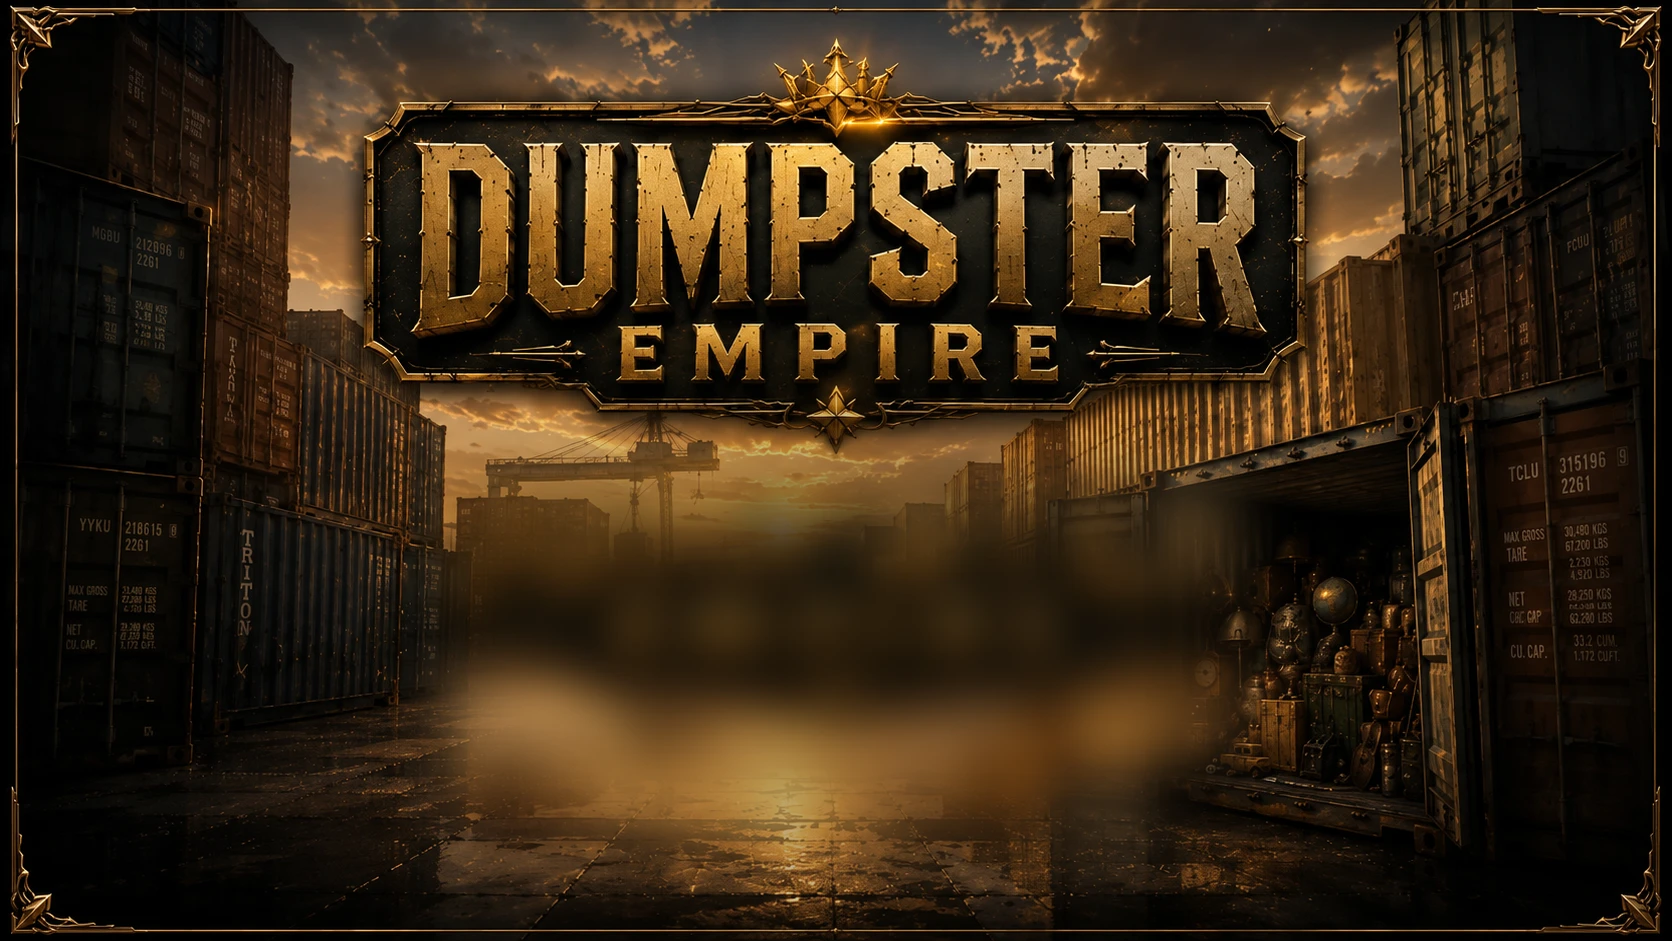
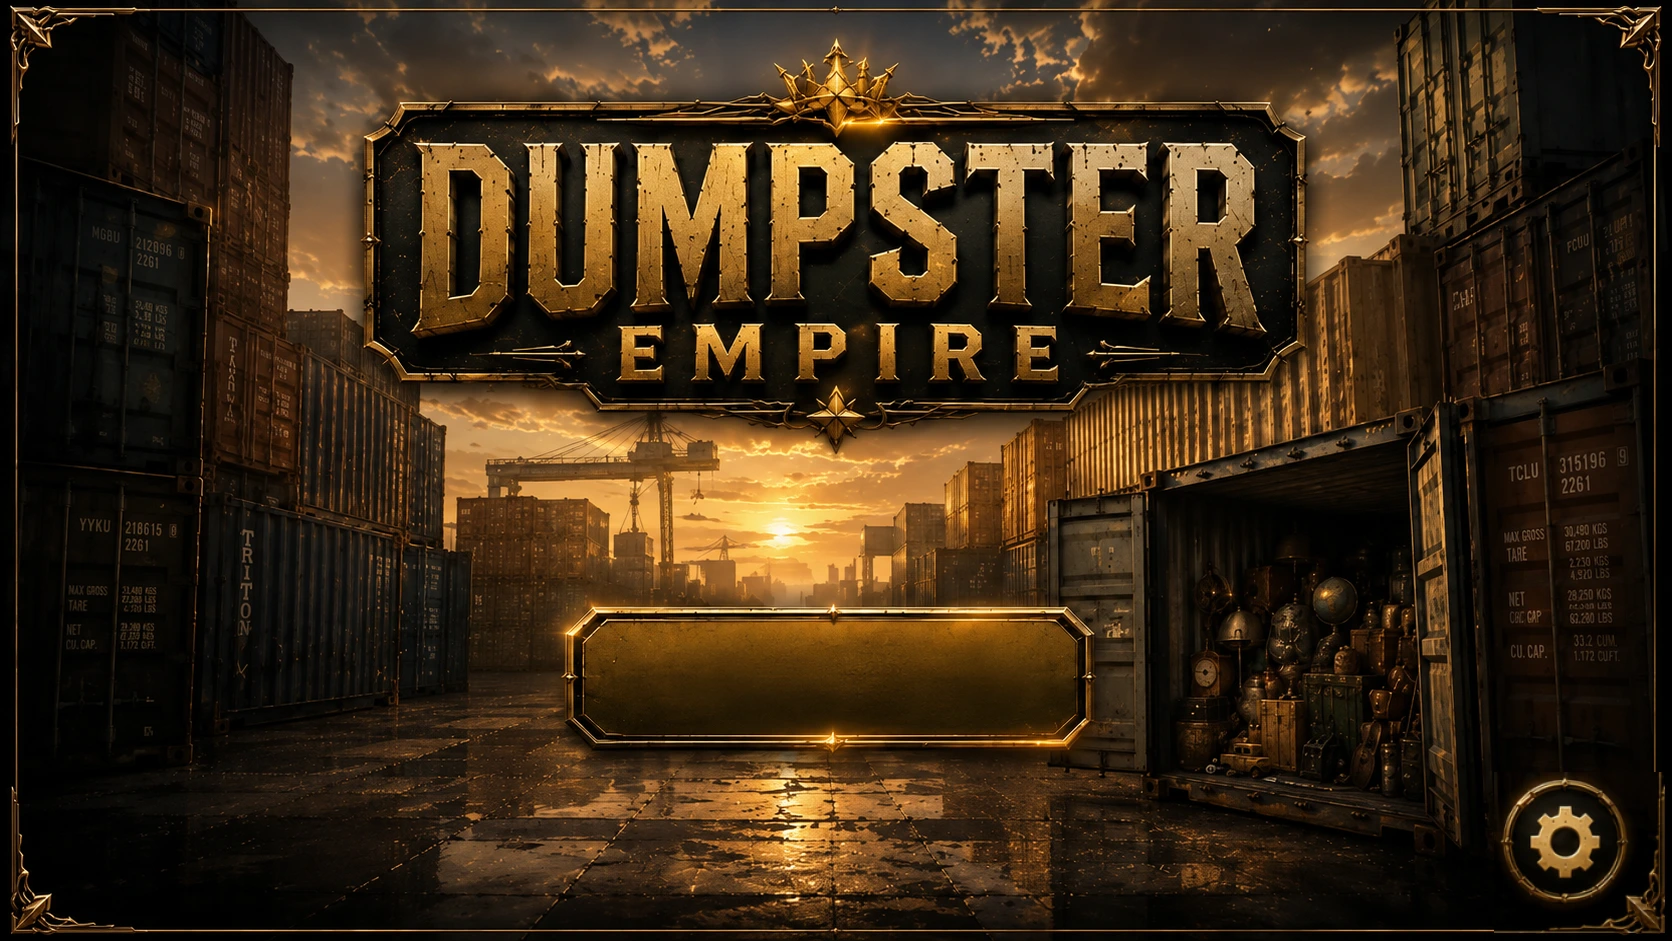
fix: ronda 32 — calcar JUGAR/engranaje sobre el arte real (idéntico a NuevaPantallaInicio.webp)
El primer intento reemplazó el diseño horneado por controles genéricos (logo/ícono propios,
botón de ajustes circular, marco y scrim CSS) en vez de respetar el arte de referencia. Se
revierte al lenguaje de calco de la ronda 19 (--title-art-scale), recalibrado sobre el nuevo
fondo: JUGAR y el engranaje quedan invisibles/transparentes y anclados exactamente sobre la
placa y la ruedita horneadas (la ruedita se compone en el propio asset desde
NuevaPantallaInicio.webp, mismo diseño). El full-bleed de #title-screen (fix de los bordes
vacíos, motivo original de la ronda) se mantiene intacto.

Changed region(s): [[0.2488, 0.4315, 0.7464, 0.9554], [0.8708, 0.8321, 1.0, 1.0]]

diff --git a/apps/game/styles/layout.css b/apps/game/styles/layout.css
@@ -101,6 +101,7 @@ body {
   background-color: var(--wood-surface);
   background-image: var(--wood-grain);
   overflow: hidden;
+  container-type: size; /* para las unidades cqw/cqh del calco de JUGAR/engranaje, ver abajo */
 }
 
 .title-screen[hidden] {
@@ -133,26 +134,23 @@ body {
   opacity: 1;
 }
 
-/* Ronda 32: el arte trae un emblema "DUMPSTER EMPIRE" horneado, pero en `cover` se recorta en
-   proporciones angostas (celular en portrait, ilegible) — a diferencia de rondas previas, este
-   logo DOM queda SIEMPRE visible (TitleScreen.js ya no le pone `.sr-only` al quedar el arte
-   "ready"). `.title-top-scrim` (debajo) lo respalda para que no compita visualmente con el
-   emblema horneado detrás. */
 .title-logo {
   display: flex;
   flex-direction: column;
   align-items: center;
   gap: var(--space-2);
   color: var(--amber);
-  position: relative;
-  text-shadow: 0 2px 8px rgba(0, 0, 0, 0.8);
+  position: relative; /* por encima del arte absoluto mientras es respaldo visible */
 }
 
 .title-logo-icon svg {
   width: clamp(40px, 8vw, 64px);
   height: clamp(40px, 8vw, 64px);
-  filter: drop-shadow(0 2px 6px rgba(0, 0, 0, 0.8));
 }
+
+/* Con el arte listo, el emblema DUMPSTER EMPIRE ya está pintado en el fondo: TitleScreen.js
+   le pone `.sr-only` (components.css) al logo de respaldo — fuera de la vista pero el <h1>
+   sigue para lectores de pantalla. */
 
 .title-logo-text {
   font-family: var(--font-display);
@@ -161,33 +159,20 @@ body {
   text-align: center;
 }
 
-/* Scrim detrás del emblema DOM (por encima del arte, por debajo del logo): franja superior
-   oscurecida para que el "DUMPSTER EMPIRE" horneado del arte no compita con el real. Puramente
-   CSS (no depende de coordenadas del arte, robusto a cualquier proporción de viewport). */
-.title-top-scrim {
-  position: absolute;
-  inset: 0 0 auto 0;
-  height: 45%;
-  background: linear-gradient(to bottom, rgba(10, 8, 4, 0.65) 0%, rgba(10, 8, 4, 0.35) 55%, transparent 100%);
-  pointer-events: none;
-}
-
 /* Ronda 19 (reference/ui/JUGARBUTTON.png, pedido del usuario 2026-07-12): placa metálica verde
    oliva con marco dorado biselado doble (borde + filete interior) y 4 remaches. 100% CSS — el
    texto SIGUE siendo t('titleScreen.play') (vivo, cambia de idioma), por eso no puede ir como
    imagen con el texto horneado. `::before` es el filete interior; `::after` son los 4 remaches
-   (radial-gradients, no requieren 4 nodos DOM).
-   Ronda 32: deja de calcarse sobre el botón pintado del arte viejo — ahora es un control real
-   centrado por flex, con tamaño `clamp()` para escalar de teléfono a desktop. */
+   (radial-gradients, no requieren 4 nodos DOM). Ambos leen `--title-art-scale` (con fallback 1
+   para el estado de respaldo, donde esa variable no existe) para escalar igual que el botón real
+   cuando está anclado sobre el arte (ver la regla `#title-screen[data-bg='ready']` más abajo). */
 .title-play-btn {
-  font-size: clamp(1rem, 2.2vw, 1.5rem);
-  padding: clamp(var(--space-3), 2vh, var(--space-4)) clamp(var(--space-5), 6vw, 3rem);
-  min-height: var(--touch-target);
-  position: relative;
+  font-size: 1.2rem;
+  padding: var(--space-3) var(--space-5);
+  position: relative; /* por encima del arte absoluto en modo respaldo */
   background: linear-gradient(180deg, var(--plate-olive) 0%, var(--plate-olive-dark) 100%);
   color: var(--plate-gold);
   border: 3px solid var(--plate-gold-dark);
-  border-radius: var(--radius-lg);
   text-transform: uppercase;
   font-weight: 800;
   letter-spacing: 0.04em;
@@ -201,8 +186,8 @@ body {
 .title-play-btn::before {
   content: '';
   position: absolute;
-  inset: 6px;
-  border: 2px solid var(--plate-gold-dark);
+  inset: calc(6px * var(--title-art-scale, 1));
+  border: calc(2px * var(--title-art-scale, 1)) solid var(--plate-gold-dark);
   border-radius: inherit;
   pointer-events: none;
 }
@@ -210,7 +195,7 @@ body {
 .title-play-btn::after {
   content: '';
   position: absolute;
-  inset: 6px;
+  inset: calc(6px * var(--title-art-scale, 1));
   pointer-events: none;
   background-repeat: no-repeat;
   background-image:
@@ -218,12 +203,12 @@ body {
     radial-gradient(circle, var(--plate-gold-dark) 45%, transparent 48%),
     radial-gradient(circle, var(--plate-gold-dark) 45%, transparent 48%),
     radial-gradient(circle, var(--plate-gold-dark) 45%, transparent 48%);
-  background-size: 7px 7px;
+  background-size: calc(7px * var(--title-art-scale, 1)) calc(7px * var(--title-art-scale, 1));
   background-position:
-    top 3px left 3px,
-    top 3px right 3px,
-    bottom 3px left 3px,
-    bottom 3px right 3px;
+    top calc(3px * var(--title-art-scale, 1)) left calc(3px * var(--title-art-scale, 1)),
+    top calc(3px * var(--title-art-scale, 1)) right calc(3px * var(--title-art-scale, 1)),
+    bottom calc(3px * var(--title-art-scale, 1)) left calc(3px * var(--title-art-scale, 1)),
+    bottom calc(3px * var(--title-art-scale, 1)) right calc(3px * var(--title-art-scale, 1));
 }
 
 .title-play-btn:hover:not(:disabled),
@@ -239,48 +224,70 @@ body {
     inset 0 2px 4px rgba(0, 0, 0, 0.35);
 }
 
-/* Marco dorado (ronda 32): overlay CSS pegado a los bordes del viewport, independiente del
-   arte — en `object-fit: cover` un marco horneado se recorta en proporciones extremas (celular
-   angosto, ultrawide) y deja de estar "flush"; este SIEMPRE lo está porque se mide contra el
-   mismo `inset` que el fondo. Doble filete + remaches en las 4 esquinas, mismo lenguaje visual
-   que `.title-play-btn`. */
-.title-frame {
+/* Botón real calcado sobre la placa VACÍA pintada en el arte (reference/ui/Fondorenovadoinicio.png
+   compuesto con la ruedita horneada de reference/ui/NuevaPantallaInicio.webp — ver
+   agentes/scripts/convert-title-bg-ronda32.mjs), para que nunca se vean dos botones. Números
+   medidos por escaneo de píxeles sobre el arte de 1672x941: rect de la placa x 564-1122 /
+   y 560-744 (558x184, centro en 843,652; centro del arte 836,470.5 → offset 7,181.5).
+   --title-art-scale replica el factor de object-fit:cover (max de ambas proporciones); todas las
+   medidas del arte se multiplican por él. */
+#title-screen[data-bg='ready'] .title-play-btn {
+  --title-art-scale: max(100cqw / 1672, 100cqh / 941);
   position: absolute;
-  inset: clamp(6px, 1.6vw, 18px);
-  border: 2px solid var(--plate-gold-dark);
-  border-radius: var(--radius-lg);
-  box-shadow:
-    inset 0 0 0 1px var(--plate-gold),
-    0 0 32px rgba(224, 190, 107, 0.12);
-  pointer-events: none;
+  left: 50%;
+  top: 50%;
+  transform: translate(-50%, -50%) translate(calc(7 * var(--title-art-scale)), calc(181.5 * var(--title-art-scale)));
+  width: calc(558 * var(--title-art-scale));
+  height: calc(184 * var(--title-art-scale));
+  min-height: var(--touch-target);
+  padding: 0;
+  border-radius: calc(16 * var(--title-art-scale));
+  font-size: calc(26 * var(--title-art-scale));
 }
 
-.title-frame::before {
-  content: '';
-  position: absolute;
-  inset: 0;
-  border-radius: inherit;
-  pointer-events: none;
-  background-repeat: no-repeat;
-  background-image:
-    radial-gradient(circle, var(--plate-gold) 40%, transparent 44%),
-    radial-gradient(circle, var(--plate-gold) 40%, transparent 44%),
-    radial-gradient(circle, var(--plate-gold) 40%, transparent 44%),
-    radial-gradient(circle, var(--plate-gold) 40%, transparent 44%);
-  background-size: 10px 10px;
-  background-position:
-    top 0 left 0,
-    top 0 right 0,
-    bottom 0 left 0,
-    bottom 0 right 0;
+/* El squish de button:active usa `transform: translateY(4px)` a secas: acá hay que combinarlo
+   con el transform de anclaje o el botón saltaría al centro flex al presionarlo. */
+#title-screen[data-bg='ready'] .title-play-btn:active:not(:disabled) {
+  transform: translate(-50%, -50%)
+    translate(calc(7 * var(--title-art-scale)), calc(181.5 * var(--title-art-scale) + 4px));
 }
 
 .title-settings-btn {
   position: absolute;
   right: max(var(--space-3), env(safe-area-inset-right));
   bottom: max(var(--space-3), env(safe-area-inset-bottom));
-  width: clamp(40px, 5vw, 56px);
-  height: clamp(40px, 5vw, 56px);
+}
+
+/* La ruedita YA está horneada en el arte (compuesta desde NuevaPantallaInicio.webp — pedido
+   explícito del usuario, mismo diseño exacto). El botón real se calca ENCIMA, invisible (sin
+   ícono ni relleno propio) para no dibujar una segunda ruedita: solo aporta el hitbox
+   clickeable/accesible y un aro sutil en hover/foco para que siga siendo descubrible. Rect
+   medido igual que el de JUGAR: centro en 1579.6,852.1 (offset 743.6,381.6 del centro del arte),
+   diámetro ~168. */
+#title-screen[data-bg='ready'] .title-settings-btn {
+  --title-art-scale: max(100cqw / 1672, 100cqh / 941);
+  position: absolute;
+  left: 50%;
+  top: 50%;
+  transform: translate(-50%, -50%) translate(calc(743.6 * var(--title-art-scale)), calc(381.6 * var(--title-art-scale)));
+  right: auto;
+  bottom: auto;
+  width: calc(168 * var(--title-art-scale));
+  height: calc(168 * var(--title-art-scale));
+  min-width: var(--touch-target);
+  min-height: var(--touch-target);
+  background: transparent;
+  border: none;
+  border-bottom: none;
+  box-shadow: none;
+  color: transparent; /* el ícono SVG usa stroke: currentColor — lo vuelve invisible */
+  border-radius: 50%;
+}
+
+#title-screen[data-bg='ready'] .title-settings-btn:hover:not(:disabled),
+#title-screen[data-bg='ready'] .title-settings-btn:focus-visible {
+  background: transparent;
+  box-shadow: 0 0 0 3px rgba(224, 190, 107, 0.45);
 }
 
 #topbar {

diff --git a/apps/game/src/ui/TitleScreen.js b/apps/game/src/ui/TitleScreen.js
@@ -1,22 +1,20 @@
 /**
  * Pantalla de inicio (ROADMAPv4.md ronda 32): fondo full-bleed a pantalla completa
- * (assets/title-bg.webp, origen reference/ui/Fondorenovadoinicio.png) con los controles reales
- * — JUGAR, engranaje, marco dorado — puestos por layout responsive (`clamp()`/flex), NO
- * calcados por píxeles sobre el arte. `#title-screen` es `position: fixed; inset: 0` (layout.css)
- * así que cubre el viewport completo incluso en fullscreen ancho, sin los bordes vacíos que
- * dejaba la columna de 720px de `#app`. No lee estado de partida — es pura presentación, montada
- * una sola vez antes de que la UI del juego exista.
+ * (assets/title-bg.webp, origen reference/ui/Fondorenovadoinicio.png + la ruedita horneada de
+ * reference/ui/NuevaPantallaInicio.webp, ver agentes/scripts/convert-title-bg-ronda32.mjs) con
+ * el botón JUGAR y el engranaje real (DOM) CALCADOS píxel a píxel sobre el arte — mismo patrón
+ * de la ronda 19/anteriores (`--title-art-scale`, layout.css), pedido explícito del usuario:
+ * "TODO IDÉNTICO" a `NuevaPantallaInicio.webp` (logo, marco y ruedita horneados, ídem diseño).
+ * `#title-screen` es `position: fixed; inset: 0` (layout.css) así que cubre el viewport completo
+ * incluso en fullscreen ancho, sin los bordes vacíos que dejaba la columna de 720px de `#app`
+ * (eso sí es nuevo de esta ronda — el resto vuelve al lenguaje visual de siempre). No lee estado
+ * de partida — es pura presentación, montada una sola vez antes de que la UI del juego exista.
  *
  * Estados del fondo (atributo `data-bg` en `#title-screen`, estilos en layout.css):
- *  - "loading": respaldo visible (madera + logo SVG + botón centrado, la pantalla previa).
- *  - "ready": arte visible; el botón NO se mueve, ya está en su posición final por layout desde
- *    el arranque.
+ *  - "loading": respaldo visible (madera + logo SVG + botón centrado por flex, sin calco).
+ *  - "ready": arte visible; el logo de respaldo pasa a modo solo-lectores-de-pantalla (el
+ *    emblema ya está pintado en el arte) y JUGAR/engranaje se anclan sobre el arte.
  *  - "error": el respaldo queda como pantalla definitiva; el juego sigue siendo jugable.
- *
- * DECISIÓN (ronda 32): el arte trae un emblema "DUMPSTER EMPIRE" horneado, pero en `cover` se
- * recorta y queda ilegible en proporciones angostas (celular en portrait) — a diferencia de
- * rondas previas, acá el logo DOM (`.title-logo`) queda SIEMPRE visible (nunca `.sr-only`), con
- * un scrim (`.title-top-scrim`, layout.css) detrás para que no compita con el emblema horneado.
  */
 
 import { iconMarkup } from '../icons/icons.js';
@@ -31,8 +29,6 @@ export const TitleScreen = {
     root.dataset.bg = 'loading';
     root.innerHTML =
       `<img class="title-bg" src="assets/title-bg.webp" alt="" aria-hidden="true" />` +
-      `<div class="title-frame" aria-hidden="true"></div>` +
-      `<div class="title-top-scrim" aria-hidden="true"></div>` +
       `<div class="title-logo">` +
       `<span class="title-logo-icon">${iconMarkup('dumpster', { size: 64 })}</span>` +
       `<h1 class="title-logo-text">DUMPSTER EMPIRE</h1>` +
@@ -43,13 +39,17 @@ export const TitleScreen = {
       `</button>`;
 
     const bg = root.querySelector('.title-bg');
+    const logo = root.querySelector('.title-logo');
     /**
-     * Único punto que muta el estado del fondo (estilos del arte en layout.css, atributo
-     * `data-bg`). El logo DOM queda visible en los tres estados (ver DECISIÓN arriba).
+     * Único punto que muta el estado del fondo: sincroniza `data-bg` (estilos del arte y del
+     * calco de JUGAR/engranaje, layout.css) con la clase `.sr-only` del logo de respaldo
+     * (components.css) — con el arte listo el emblema ya está pintado en el fondo y el logo
+     * queda solo para lectores de pantalla.
      * @param {'loading' | 'ready' | 'error'} state
      */
     const setBgState = (state) => {
       root.dataset.bg = state;
+      logo.classList.toggle('sr-only', state === 'ready');
     };
     // `complete` cubre el caso de imagen ya cacheada (los eventos pueden haber disparado antes
     // de llegar acá porque innerHTML inicia la carga en cuanto se parsea).